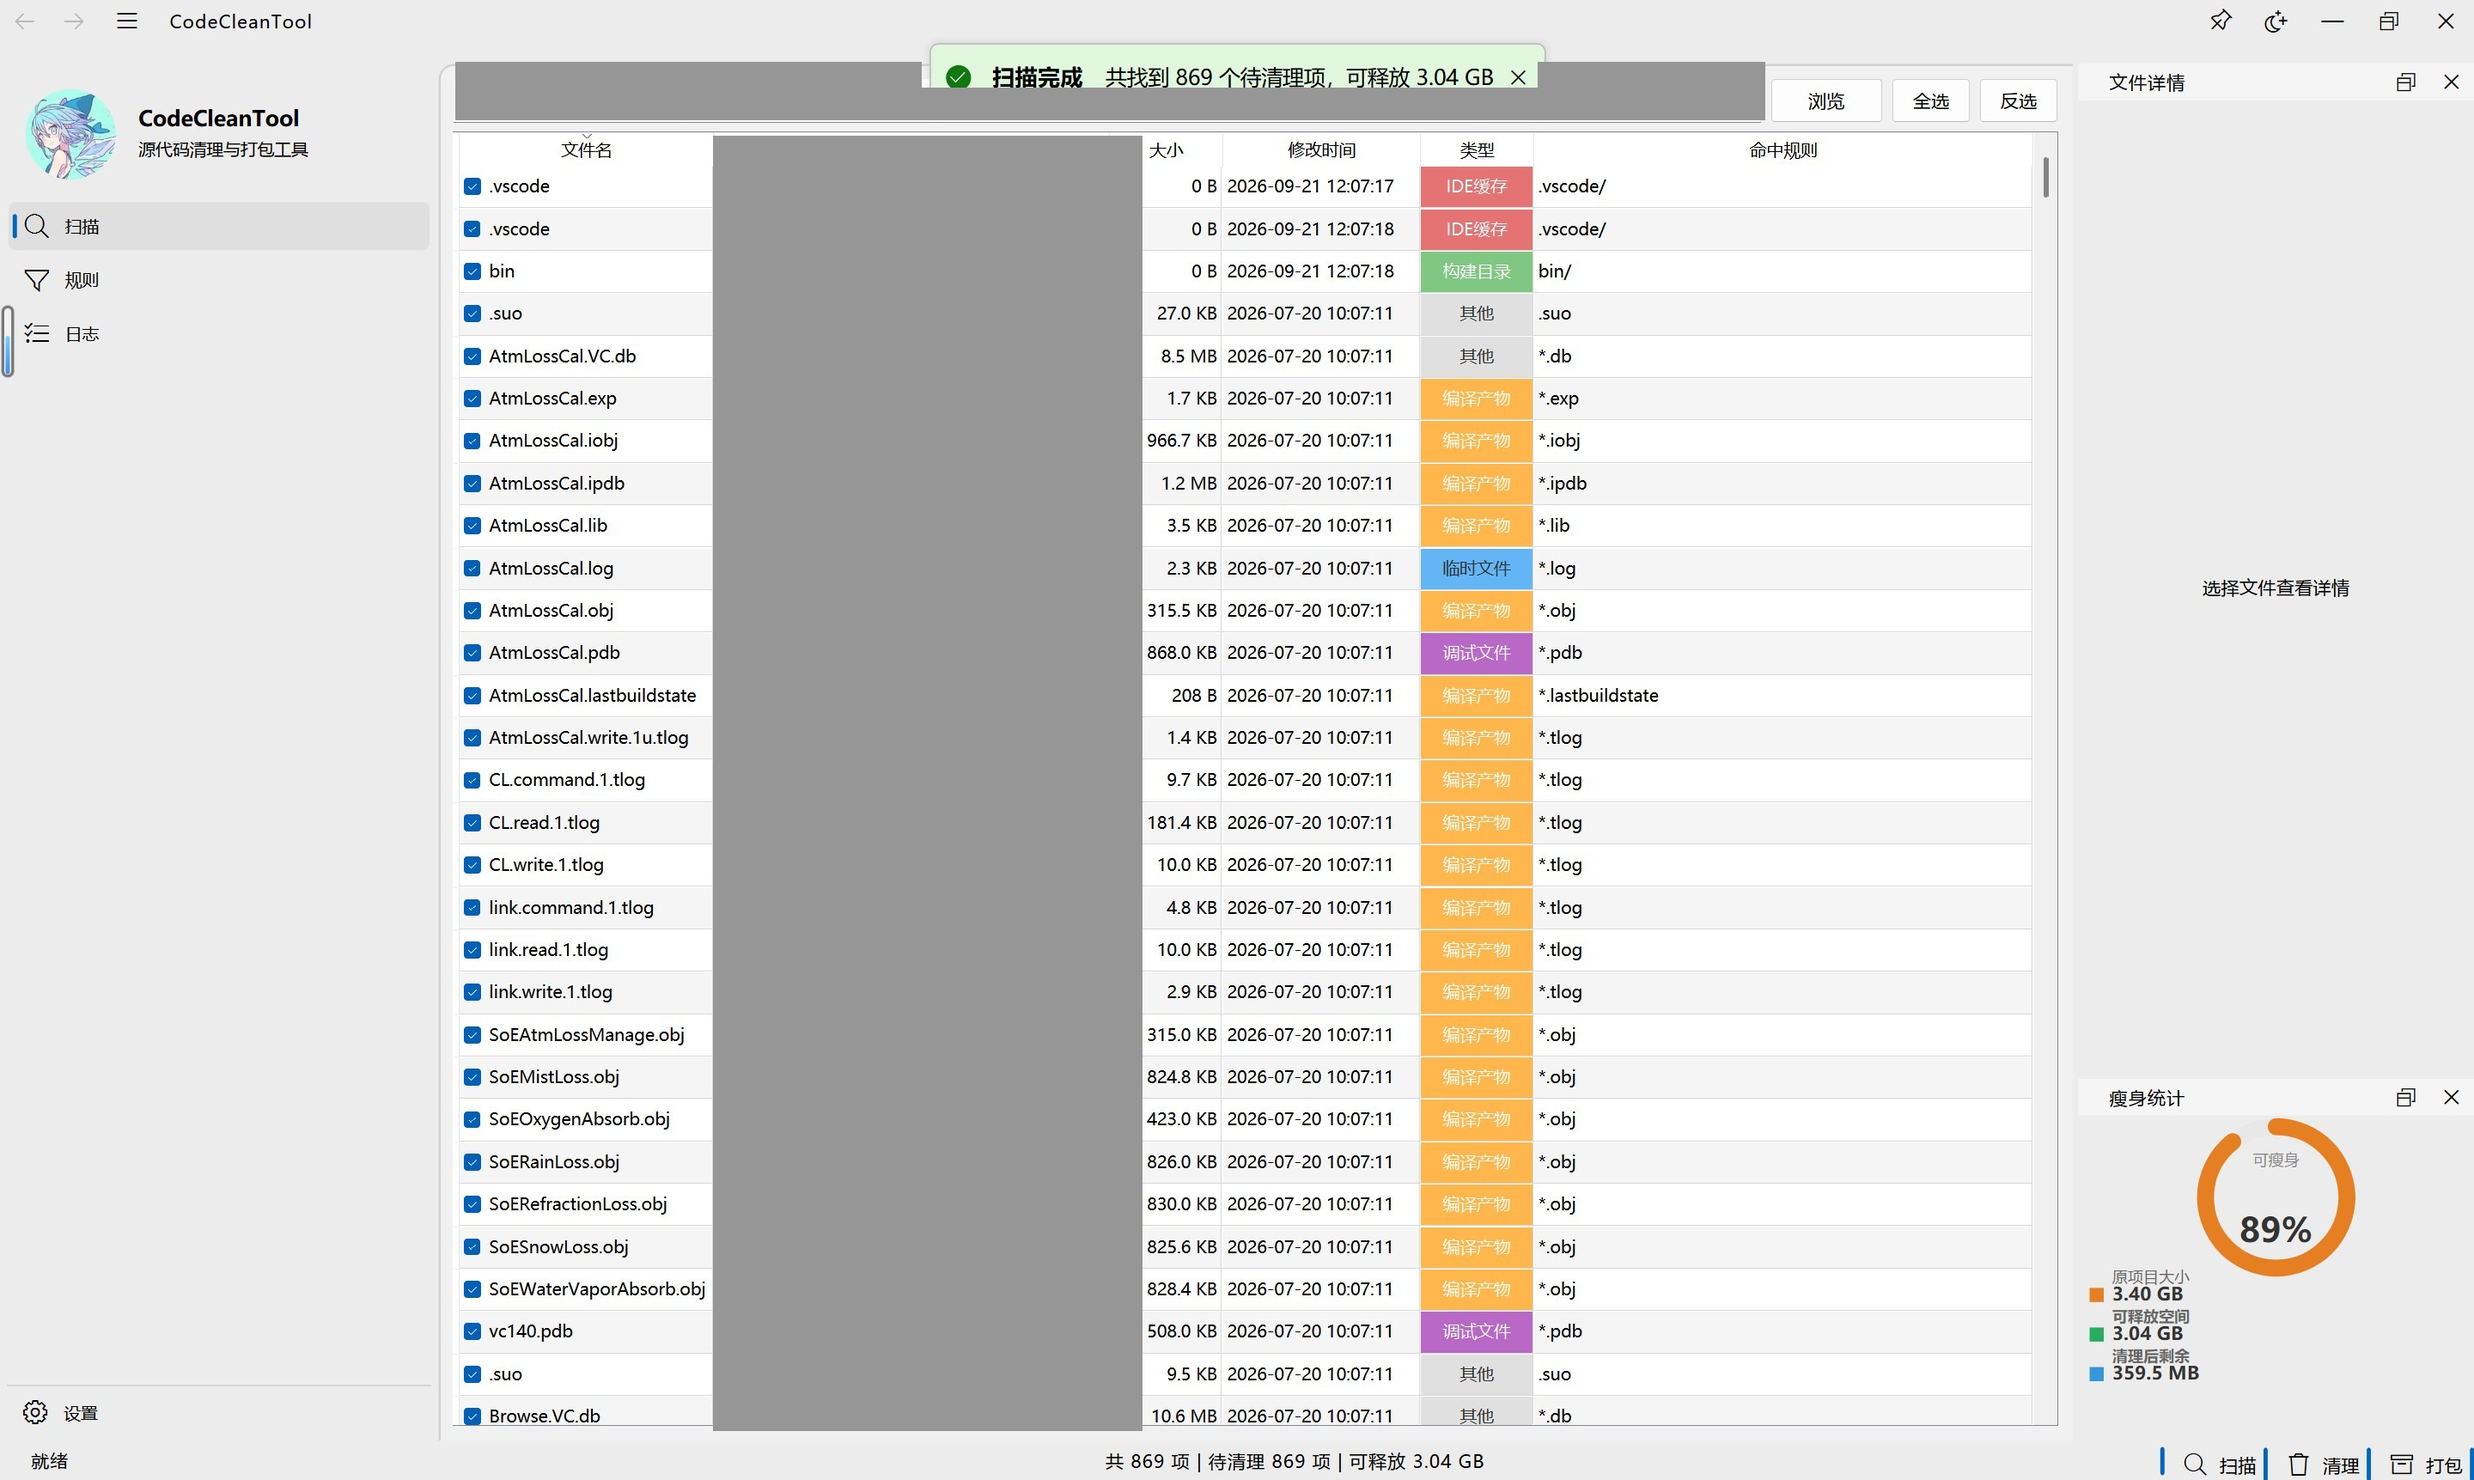
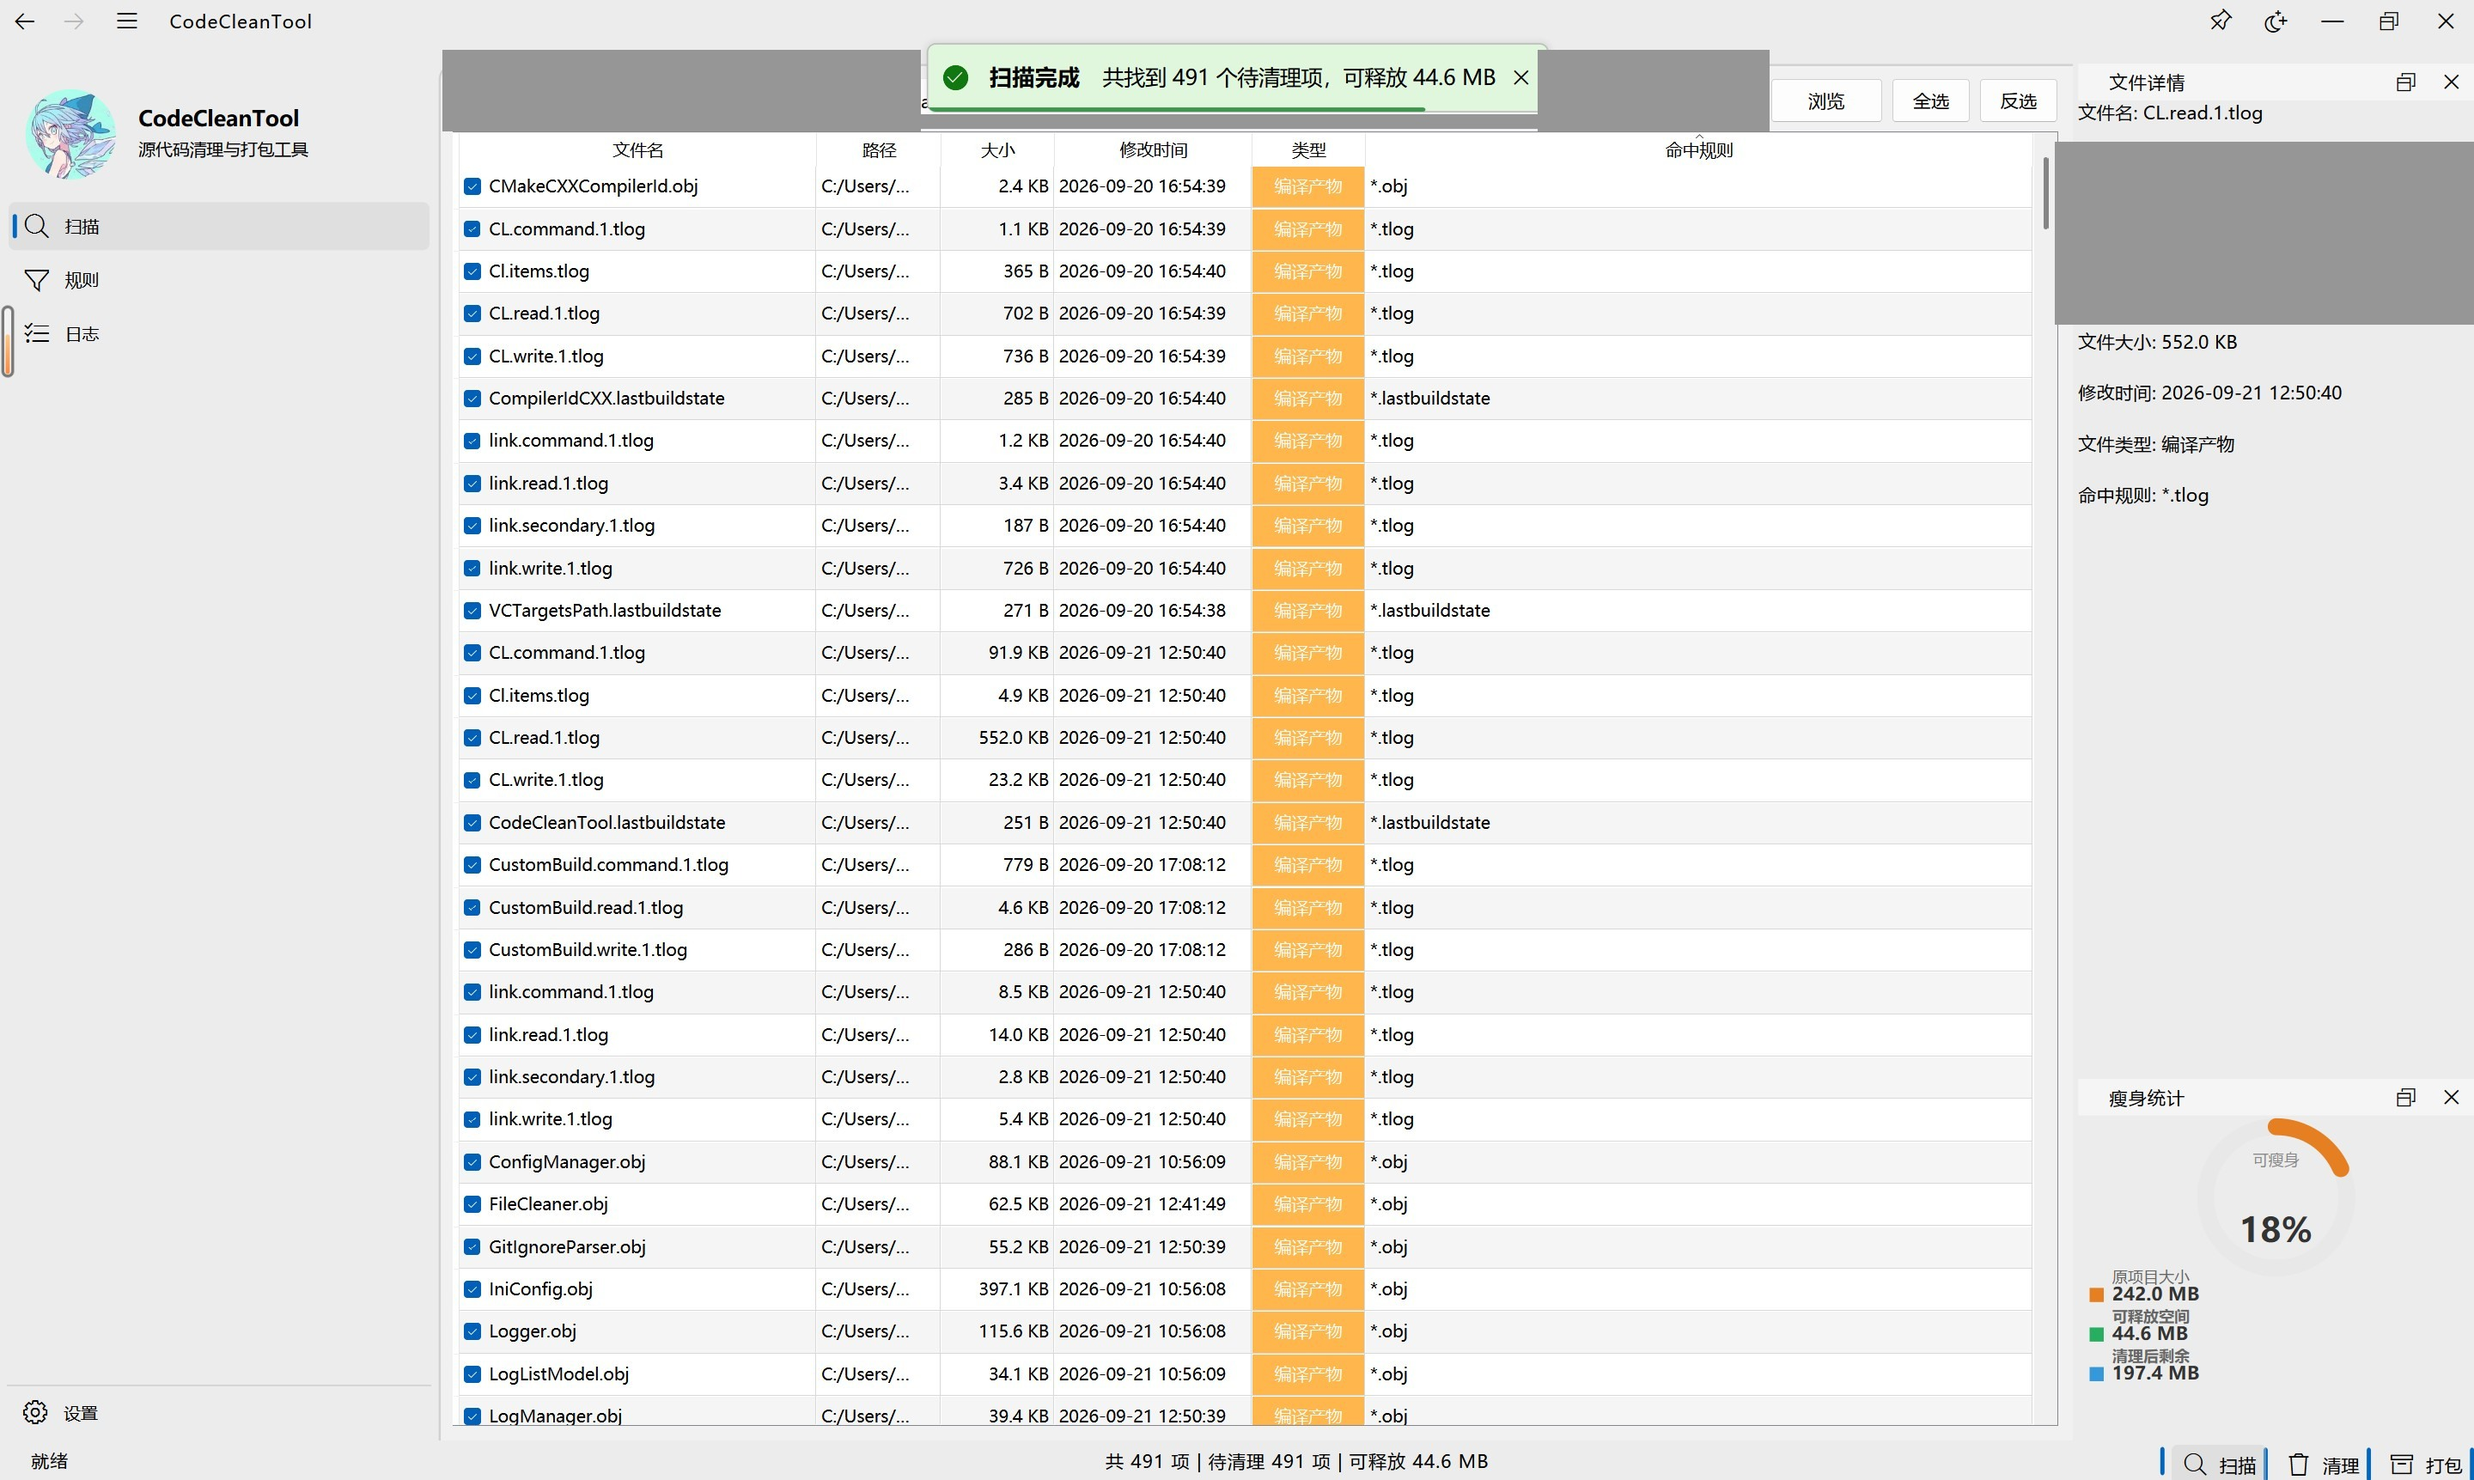
docs: 截图更新为扫描与清理前后对比

diff --git a/README.md b/README.md
@@ -2,7 +2,9 @@
 
 源代码清理与打包工具。面向 C++/Qt/VS/CMake 开发者，在交付、归档、外发前扫描工程目录、清理冗余文件，并自动生成仅含源码的 7z 压缩包。
 
-![CodeCleanTool 主界面：扫描结果表格（含类型颜色标签）、右侧文件详情与瘦身统计环形图、底部操作栏](docs/image/screenshot-main.jpg)
+![扫描结果：命中清理规则的文件按类型着色，右侧为文件详情与瘦身统计](docs/image/screenshot-main.jpg)
+
+![清理完成：成功 491 项，失败 0 项，瘦身统计随之刷新](docs/image/screenshot-cleaned.jpg)
 
 C++17 · Qt 5.15.2 · ElaWidgetTools (Fluent UI) · CMake 3.16+ · MSVC 143 · 7z CLI
 
